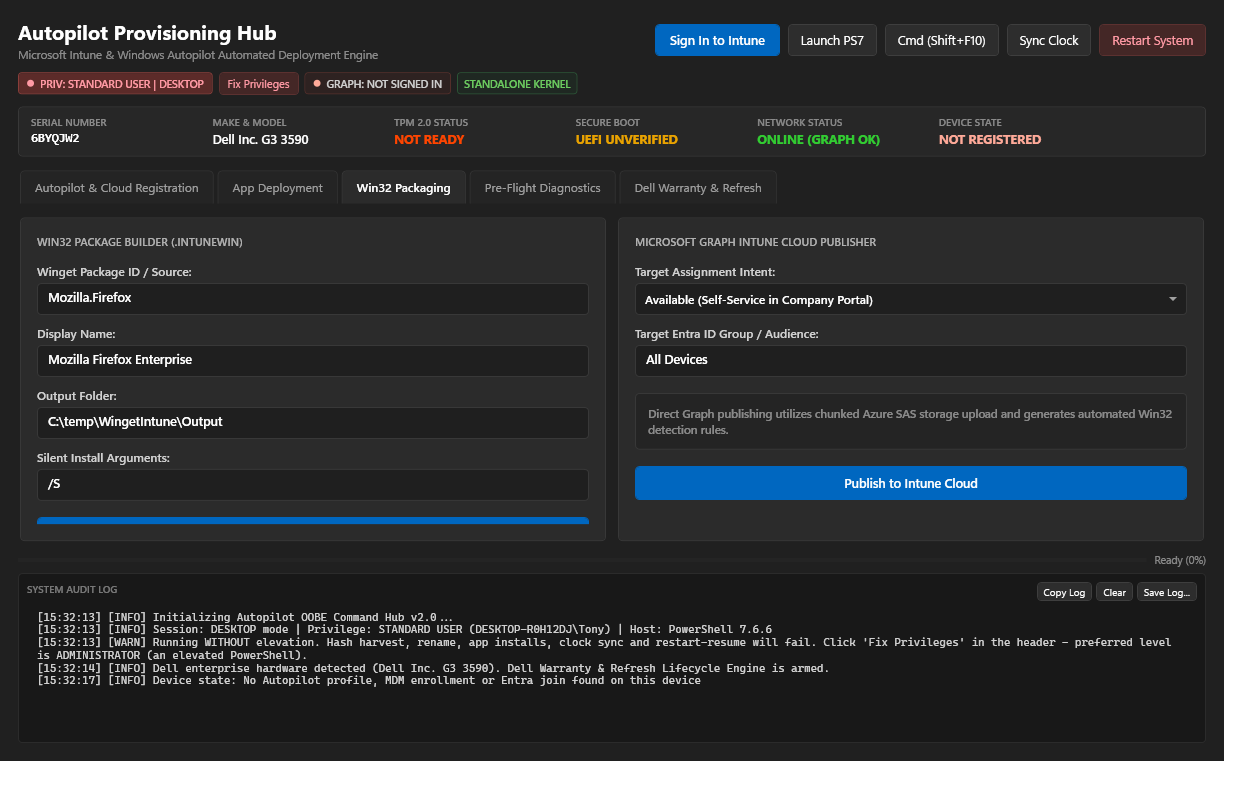
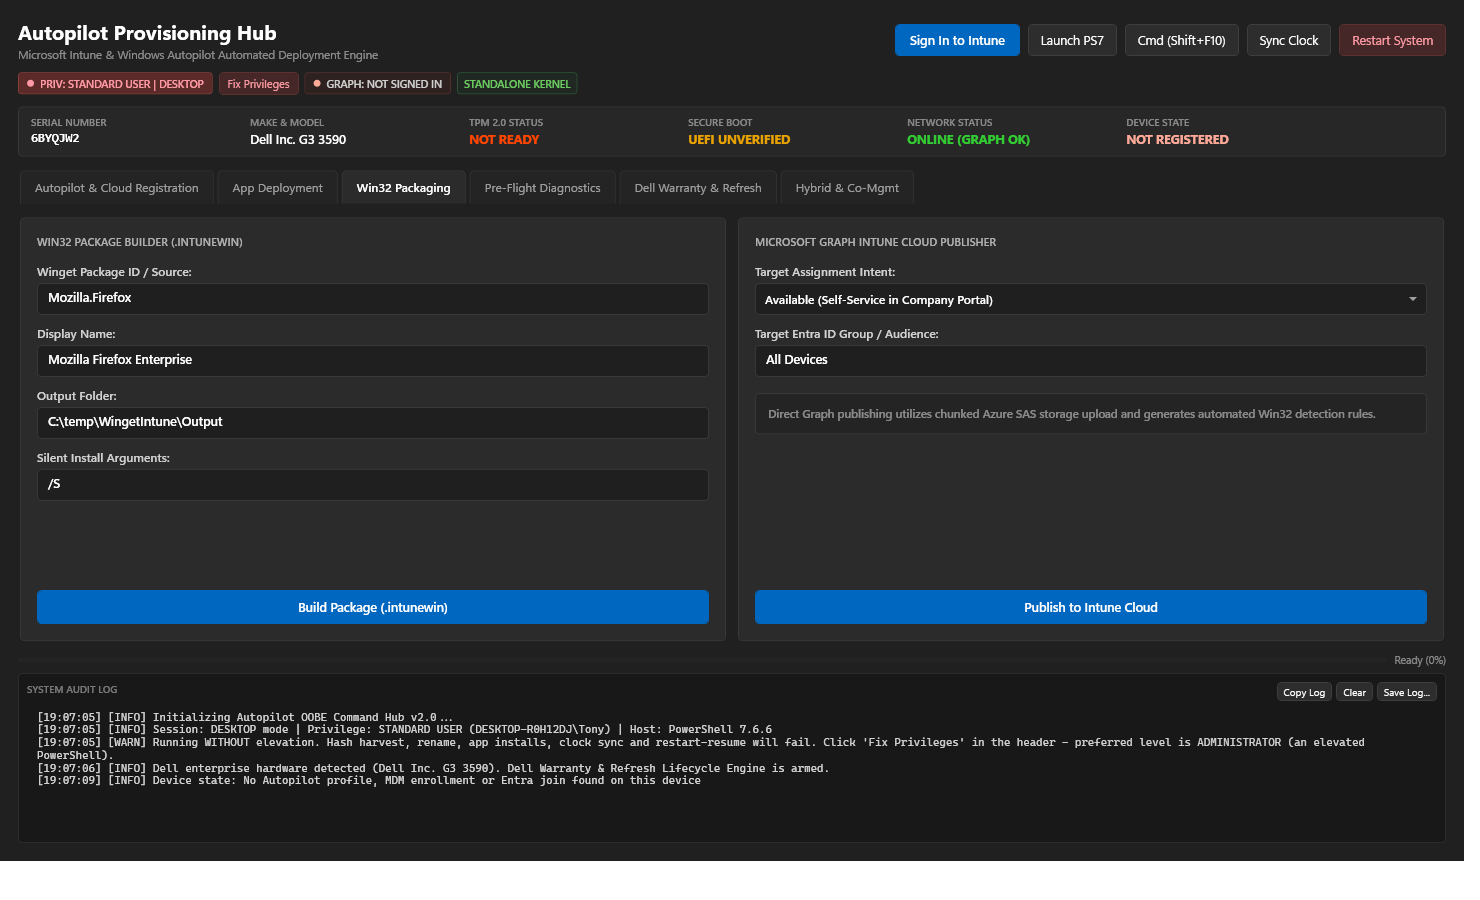
fix: Win32 Packaging action buttons no longer clip; taller default window
The Win32 tab's left panel (4 input fields) overflowed a short TabControl area, clipping the
"Build Package (.intunewin)" button to a thin blue line. Both panels are now a Grid with the fields in
a ScrollViewer (row *) and the action button pinned (row Auto), so Build/Publish are always visible and
only the fields scroll when cramped. Default window height also bumped 800 -> 900 so fields show without
scrolling at the default size; MinHeight 700 stays safe via the pinned button.

Verified: BtnBuildPackage and BtnPublishIntune fully within the window at both 900 (default) and 700 (min).

diff --git a/build_autopilot.py b/build_autopilot.py
@@ -2475,7 +2475,7 @@ function Start-AutopilotHubGui {
 <Window xmlns="http://schemas.microsoft.com/winfx/2006/xaml/presentation"
         xmlns:x="http://schemas.microsoft.com/winfx/2006/xaml"
         Title="Autopilot Provisioning Hub — Enterprise Endpoint Deployment"
-        Height="800" Width="1480" MinHeight="700" MinWidth="1240"
+        Height="900" Width="1480" MinHeight="700" MinWidth="1240"
         WindowStartupLocation="CenterScreen"
         Background="#202020" Foreground="#FFFFFF"
         FontFamily="Segoe UI Variable Text, Segoe UI, sans-serif">
@@ -3342,49 +3342,63 @@ function Start-AutopilotHubGui {
                         <ColumnDefinition Width="*"/>
                     </Grid.ColumnDefinitions>
 
-                    <!-- Left: Package Builder -->
+                    <!-- Left: Package Builder (fields scroll if cramped; the action button stays pinned) -->
                     <Border Grid.Column="0" Background="#2B2B2B" CornerRadius="4" BorderBrush="#383838" BorderThickness="1" Padding="16" Margin="0,0,6,0">
-                        <StackPanel>
-                            <TextBlock Text="WIN32 PACKAGE BUILDER (.INTUNEWIN)" FontSize="11" FontWeight="SemiBold" Foreground="#B0B0B0" Margin="0,0,0,14"/>
+                        <Grid>
+                            <Grid.RowDefinitions>
+                                <RowDefinition Height="*"/>
+                                <RowDefinition Height="Auto"/>
+                            </Grid.RowDefinitions>
+                            <ScrollViewer Grid.Row="0" VerticalScrollBarVisibility="Auto">
+                                <StackPanel>
+                                    <TextBlock Text="WIN32 PACKAGE BUILDER (.INTUNEWIN)" FontSize="11" FontWeight="SemiBold" Foreground="#B0B0B0" Margin="0,0,0,14"/>
 
-                            <TextBlock Text="Winget Package ID / Source:" FontSize="12" FontWeight="SemiBold" Foreground="#D0D0D0" Margin="0,0,0,4"/>
-                            <TextBox Name="TxtPkgId" Height="32" Text="Mozilla.Firefox" Margin="0,0,0,10"/>
+                                    <TextBlock Text="Winget Package ID / Source:" FontSize="12" FontWeight="SemiBold" Foreground="#D0D0D0" Margin="0,0,0,4"/>
+                                    <TextBox Name="TxtPkgId" Height="32" Text="Mozilla.Firefox" Margin="0,0,0,10"/>
 
-                            <TextBlock Text="Display Name:" FontSize="12" FontWeight="SemiBold" Foreground="#D0D0D0" Margin="0,0,0,4"/>
-                            <TextBox Name="TxtPkgDisplayName" Height="32" Text="Mozilla Firefox Enterprise" Margin="0,0,0,10"/>
+                                    <TextBlock Text="Display Name:" FontSize="12" FontWeight="SemiBold" Foreground="#D0D0D0" Margin="0,0,0,4"/>
+                                    <TextBox Name="TxtPkgDisplayName" Height="32" Text="Mozilla Firefox Enterprise" Margin="0,0,0,10"/>
 
-                            <TextBlock Text="Output Folder:" FontSize="12" FontWeight="SemiBold" Foreground="#D0D0D0" Margin="0,0,0,4"/>
-                            <TextBox Name="TxtPkgOutputDir" Height="32" Text="C:\temp\WingetIntune\Output" Margin="0,0,0,10"/>
+                                    <TextBlock Text="Output Folder:" FontSize="12" FontWeight="SemiBold" Foreground="#D0D0D0" Margin="0,0,0,4"/>
+                                    <TextBox Name="TxtPkgOutputDir" Height="32" Text="C:\temp\WingetIntune\Output" Margin="0,0,0,10"/>
 
-                            <TextBlock Text="Silent Install Arguments:" FontSize="12" FontWeight="SemiBold" Foreground="#D0D0D0" Margin="0,0,0,4"/>
-                            <TextBox Name="TxtPkgInstallArgs" Height="32" Text="/S" Margin="0,0,0,16"/>
-
-                            <Button Name="BtnBuildPackage" Content="Build Package (.intunewin)" Style="{StaticResource AccentBtn}" Height="34"/>
-                        </StackPanel>
+                                    <TextBlock Text="Silent Install Arguments:" FontSize="12" FontWeight="SemiBold" Foreground="#D0D0D0" Margin="0,0,0,4"/>
+                                    <TextBox Name="TxtPkgInstallArgs" Height="32" Text="/S" Margin="0,0,0,16"/>
+                                </StackPanel>
+                            </ScrollViewer>
+                            <Button Name="BtnBuildPackage" Grid.Row="1" Content="Build Package (.intunewin)" Style="{StaticResource AccentBtn}" Height="34" Margin="0,12,0,0"/>
+                        </Grid>
                     </Border>
 
-                    <!-- Right: Cloud Publisher -->
+                    <!-- Right: Cloud Publisher (fields scroll if cramped; the action button stays pinned) -->
                     <Border Grid.Column="1" Background="#2B2B2B" CornerRadius="4" BorderBrush="#383838" BorderThickness="1" Padding="16" Margin="6,0,0,0">
-                        <StackPanel>
-                            <TextBlock Text="MICROSOFT GRAPH INTUNE CLOUD PUBLISHER" FontSize="11" FontWeight="SemiBold" Foreground="#B0B0B0" Margin="0,0,0,14"/>
+                        <Grid>
+                            <Grid.RowDefinitions>
+                                <RowDefinition Height="*"/>
+                                <RowDefinition Height="Auto"/>
+                            </Grid.RowDefinitions>
+                            <ScrollViewer Grid.Row="0" VerticalScrollBarVisibility="Auto">
+                                <StackPanel>
+                                    <TextBlock Text="MICROSOFT GRAPH INTUNE CLOUD PUBLISHER" FontSize="11" FontWeight="SemiBold" Foreground="#B0B0B0" Margin="0,0,0,14"/>
 
-                            <TextBlock Text="Target Assignment Intent:" FontSize="12" FontWeight="SemiBold" Foreground="#D0D0D0" Margin="0,0,0,4"/>
-                            <ComboBox Name="CmbAssignmentIntent" Height="32" Margin="0,0,0,10" Background="#1F1F1F" Foreground="#FFFFFF">
-                                <ComboBoxItem Content="Available (Self-Service in Company Portal)" IsSelected="True"/>
-                                <ComboBoxItem Content="Required (Mandatory Push)"/>
-                                <ComboBoxItem Content="Uninstall"/>
-                            </ComboBox>
+                                    <TextBlock Text="Target Assignment Intent:" FontSize="12" FontWeight="SemiBold" Foreground="#D0D0D0" Margin="0,0,0,4"/>
+                                    <ComboBox Name="CmbAssignmentIntent" Height="32" Margin="0,0,0,10" Background="#1F1F1F" Foreground="#FFFFFF">
+                                        <ComboBoxItem Content="Available (Self-Service in Company Portal)" IsSelected="True"/>
+                                        <ComboBoxItem Content="Required (Mandatory Push)"/>
+                                        <ComboBoxItem Content="Uninstall"/>
+                                    </ComboBox>
 
-                            <TextBlock Text="Target Entra ID Group / Audience:" FontSize="12" FontWeight="SemiBold" Foreground="#D0D0D0" Margin="0,0,0,4"/>
-                            <TextBox Name="TxtAssignGroup" Height="32" Text="All Devices" Margin="0,0,0,16"/>
+                                    <TextBlock Text="Target Entra ID Group / Audience:" FontSize="12" FontWeight="SemiBold" Foreground="#D0D0D0" Margin="0,0,0,4"/>
+                                    <TextBox Name="TxtAssignGroup" Height="32" Text="All Devices" Margin="0,0,0,16"/>
 
-                            <Border Background="#242424" BorderBrush="#383838" BorderThickness="1" CornerRadius="4" Padding="12" Margin="0,0,0,16">
-                                <TextBlock Text="Direct Graph publishing utilizes chunked Azure SAS storage upload and generates automated Win32 detection rules."
-                                           FontSize="11.5" Foreground="#8A8A8A" TextWrapping="Wrap"/>
-                            </Border>
-
-                            <Button Name="BtnPublishIntune" Content="Publish to Intune Cloud" Style="{StaticResource AccentBtn}" Height="34"/>
-                        </StackPanel>
+                                    <Border Background="#242424" BorderBrush="#383838" BorderThickness="1" CornerRadius="4" Padding="12" Margin="0,0,0,16">
+                                        <TextBlock Text="Direct Graph publishing utilizes chunked Azure SAS storage upload and generates automated Win32 detection rules."
+                                                   FontSize="11.5" Foreground="#8A8A8A" TextWrapping="Wrap"/>
+                                    </Border>
+                                </StackPanel>
+                            </ScrollViewer>
+                            <Button Name="BtnPublishIntune" Grid.Row="1" Content="Publish to Intune Cloud" Style="{StaticResource AccentBtn}" Height="34" Margin="0,12,0,0"/>
+                        </Grid>
                     </Border>
                 </Grid>
             </TabItem>
